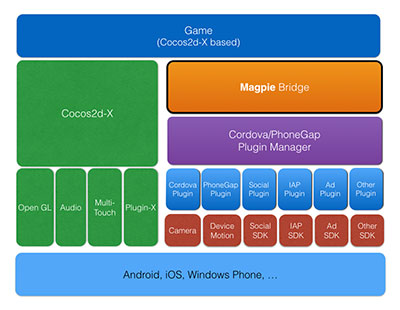
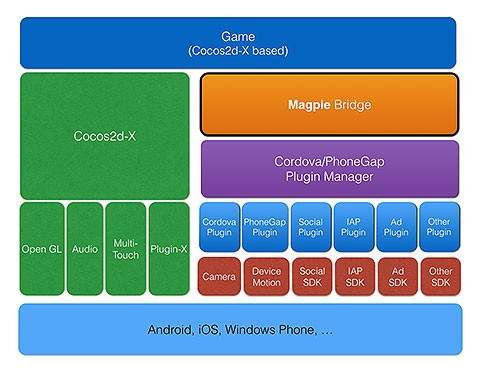
update, adjust layout

diff --git a/index.html b/index.html
@@ -8,16 +8,16 @@
 <title>Raymond Xie</title>
 <meta name="description" content="Projects on Magpie Framework, Best Plugins for Cordova/PhoneGap and Cocos2d-X">
 <meta name="keyword" content="Magpie,Cordova,PhoneGap,Cocos2d,Cocos2dx,Plugins,AdMob,iAd,Flurry,IAP,HandyWit,RjFun,Raymond,floatinghotpot">
+<meta name="viewport" content="width=device-width">
 </head>
 <body class='homepage'>
 
 <div id='raymond'>
-<table border=0>
+<table class='profile' border=0>
 <tr>
-<td rowspan=3>
+<td rowspan=3 class="m">
 <img class='round80 shadow' width='160' src='https://2.gravatar.com/avatar/c4774d8af2d88d3711229c23427ec3f7?d=https%3A%2F%2Fidenticons.github.com%2F598ee02f9273370d1a239cf7ac80c21d.png&r=x&s=440'/>
 </td>
-<td rowspan=3 nowrap >&nbsp;&nbsp;&nbsp;&nbsp;</td>
 <td class='m' colspan=2>
 <h1>Raymond, Xie Liming</h1>
 </td></tr>
@@ -40,42 +40,27 @@ Contact:
 </div>
 
 <div class='group'>
-<h2>Offering (mobile app/game solutions)</h2>
-<ul>
-<li>Project Outsourcing, check: <a href='http://rjfun.com/' target='_blank'>http://rjfun.com</a></li>
-<li>Technical Consulting
-<ul>
-<li>Cordova</li>
-<li>Cocos2d-X</li>
-<li>HTML5/javascript/css</li>
-</ul>
-</li>
-<li>R&D Management Consulting.</li>
-</ul>
-</div>
-
-<div class='group'>
 <h2>Magpie, bridge Cocos2d-X to Cordova Plugins !</h2>
 <ul>
-<li>Cocos2d-X, <br/>- the most popular open source game engine, cross platform, develop games in C++/Javascript/Lua, excellent performance.</li>
-<li>Cordova, <br/> - hundreds plugins to enable HTML5 app/game to use native functionalities and 3rd party SDK integration.</li>
+<li><a href="http://www.cocos2d-x.org/">Cocos2d-X</a>, - the most popular open source game engine, cross platform, develop games in C++/Javascript/Lua, excellent performance.</li>
+<li><a href="http://www.cordova.org/">Cordova</a>, - hundreds plugins and APIs for HTML5 app/game to use native functionalities and 3rd party SDK integration.</li>
 </ul>
-<p>Now Magpie brings them together! <a href='https://github.com/HandyWit/magpie'>Read more ...</a>!</p>
+<p><span style="font-color:red;">With Magpie, you can use Cordova Plugins in Cocos2d-X</span>, <a href='https://github.com/HandyWit/magpie'>Read more ...</a></p>
 <img src='img/magpie_arch.jpg'/>
 </div>
 
 <div class='group'>
 <h2>Cordova/Phonegap Plugins</h2>
 <table class='group'>
-<tr><td colspan=2>Monetize with Ad Plugins</td></tr>
+<tr><td class='item' colspan=2>Monetize with Ad Plugins</td></tr>
 <tr><td class='item'><a href='https://github.com/floatinghotpot/cordova-admob-pro'>AdMob</a></td><td>The best AdMob plugin for <a href="http://www.admob.com/" target="_blank">Google AdMob</a>.</td></tr>
-<tr><td class='item'><a href='https://github.com/floatinghotpot/cordova-plugin-iad'>Apple iAd</a></td><td>Plugin for <a href="http://advertising.apple.com/" target="_blank">Apple iAd</a>, top 1 iAd plugin in <a href="https://build.phonegap.com/plugins" target="_blank">PhoneGap build</a></td></tr>
+<tr><td class='item'><a href='https://github.com/floatinghotpot/cordova-plugin-iad'>Apple iAd</a></td><td>Plugin for <a href="http://advertising.apple.com/" target="_blank">Apple iAd</a>, top one iAd plugin in <a href="https://build.phonegap.com/plugins" target="_blank">PhoneGap build</a></td></tr>
 <tr><td class='item'><a href='https://github.com/floatinghotpot/cordova-plugin-flurry'>Flurry</a></td><td>Plugin for Flurry Ad service.</td></tr>
 <tr><td class='item'><a href='https://github.com/floatinghotpot/cordova-plugin-qihu360ad'>Qihu360Ad</a></td><td>Plugin for Qihu 360 Ad service.</td></tr>
-<tr><td colspan=2>In-App Purchase Plugins</td></tr>
+<tr><td class='item' colspan=2>In-App Purchase Plugins</td></tr>
 <tr><td class='item'><a href='https://github.com/floatinghotpot/cordova-plugin-appleiap'>Apple IAP</a></td><td>Apple AppStore In-App Purchase</td></tr>
 <tr><td class='item'><a href='https://github.com/floatinghotpot/cordova-plugin-paypalmpl'>PayPal (MPL)</a></td><td>Receive Payment with PayPal</td></tr>
-<tr><td colspan=2>Media & Network Plugins</td></tr>
+<tr><td class='item' colspan=2>Media & Network Plugins</td></tr>
 <tr><td class='item'><a href='https://github.com/floatinghotpot/cordova-plugin-lowlatencyaudio'>LowLatencyAudio</a></td><td>Must have for apps/games, as HTML5 audio in mobile browser is really poor.</td></tr>
 <tr><td class='item'><a href='https://github.com/floatinghotpot/cordova-plugin-iflyspeech'>iFlySpeech</a></td><td>Speech recognizer and synthesizer, talking to your phone</td></tr>
 <tr><td class='item'><a href='https://github.com/floatinghotpot/cordova-plugin-wifi'>WiFi</a></td><td>manage wifi on smartphone</td></tr>
@@ -107,6 +92,27 @@ Contact:
 <p>Payoneer / AliPay: <span class='item'>liming.xie@gmail.com</span></p>
 </div>
 
+<div id='offering' class='floatright round'>
+<p class='subtitle'>Offering (mobile app/game solutions)</p>
+<ul>
+<li>Project Outsourcing, check: <a href='http://rjfun.com/' target='_blank'>http://rjfun.com</a>
+<ul>
+<li>Mobile App/Games</li>
+<li>Cordova/PhoneGap Plugins</li>
+<li>Cocos2d-X Plugins</li>
+</ul>
+</li>
+<li>Technical Consulting
+<ul>
+<li>Magpie Framework</li>
+<li>Cordova/PhoneGap Hybrid</li>
+<li>HTML5/javascript/CSS</li>
+<li>Cocos2d-X</li>
+</ul>
+</li>
+</ul>
+</div>
+
 <div id='apps' class='floatright round'>
 <p class='subtitle'>Download Mobile Apps/Games:</p>
 <table class='m' cellpadding=10 cellspacing=0>
@@ -129,8 +135,7 @@ Contact:
 </iframe>
 </div>
 
-<p><br/></p>
-<p>Last Update: July 17, 2014</p>
+<p>Last Update: Aug 18, 2014</p>
 
 </body>
 </html>

diff --git a/main.css b/main.css
@@ -58,18 +58,12 @@ div {
 	margin: 0px;
 }
 
-h2 {
-	width: 500px;
-	font-size: 20px;
-	color: black;
-	background: #eeeeee;
-	border-bottom:1px dotted gray;
-	padding: 3px;
-    border-radius: 5px;
+table.profile {
+	width: 500px;	
 }
 
-p.subtitle {
-	width: 360px;
+h2 {
+	width: 500px;
 	font-size: 20px;
 	color: black;
 	background: #eeeeee;
@@ -95,6 +89,31 @@ a:hover {
 	text-decoration: underline;
 }
 
+.item {
+	text-align: center;
+	padding: 3px;
+    border-radius: 5px;
+    background: #ddddff;
+}
+
+div.demo {
+	display: inline-block;
+	vertical-align: top;
+	margin: 10px;
+}
+
+@media screen and (min-width: 521px) {
+
+p.subtitle {
+	width: 360px;
+	font-size: 20px;
+	color: black;
+	background: #eeeeee;
+	border-bottom:1px dotted gray;
+	padding: 3px;
+    border-radius: 5px;
+}
+
 div.floatright {
 	position: absolute;
 	width: 364px;
@@ -104,28 +123,42 @@ div.floatright {
 	background: #eeeeee;
 }
 
-.item {
-	text-align: center;
-	padding: 3px;
-    border-radius: 5px;
-    background: #ddddff;
-}
 
 div#donate_x {
 	top: 10px;
 }
 
+div#offering {
+	top: 150px;
+}
+
 div#apps {
-	top: 200px;
+	top: 410px;
 }
 
 div#gomoku2 {
-	top: 460px;
+	top: 660px;
 }
 
-div.demo {
-	display: inline-block;
-	vertical-align: top;
-	margin: 10px;
 }
+
+@media screen and (max-width: 520px) {
+
+p.subtitle {
+	width: 500px;
+	font-size: 20px;
+	color: black;
+	background: #eeeeee;
+	border-bottom:1px dotted gray;
+	padding: 3px;
+    border-radius: 5px;
+}
+
+div.floatright {
+	width: 500px;
+	padding: 2px;
+}
+
+}
+
 
